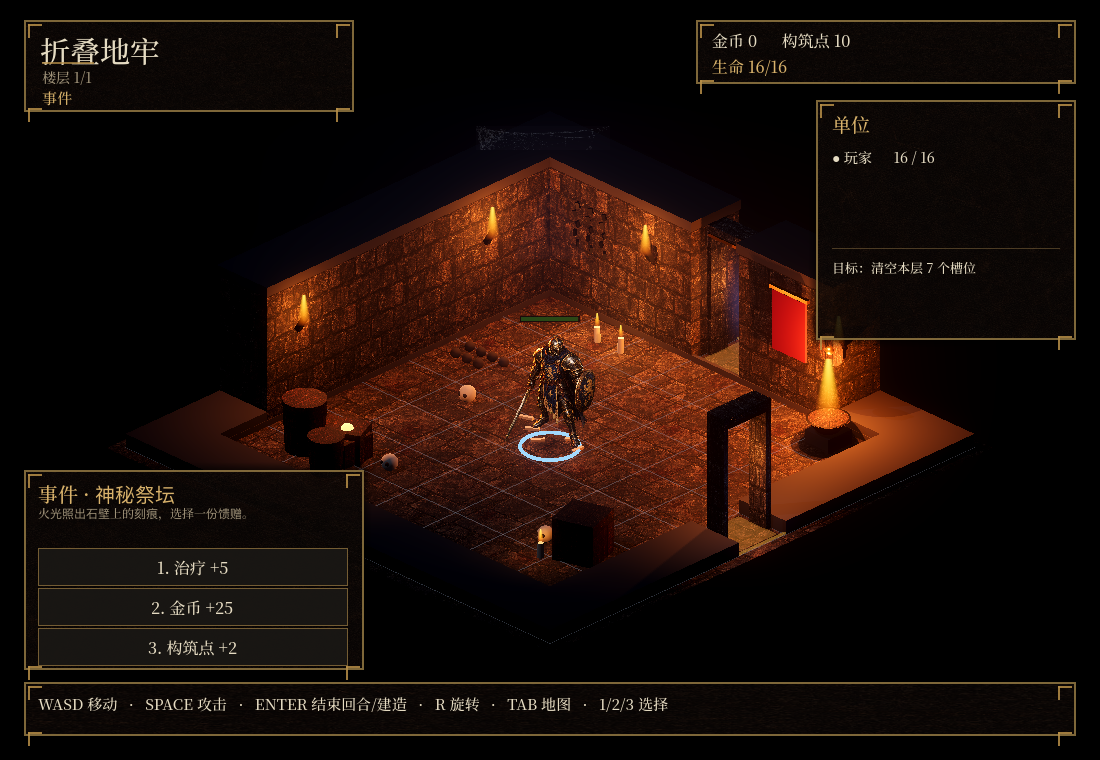
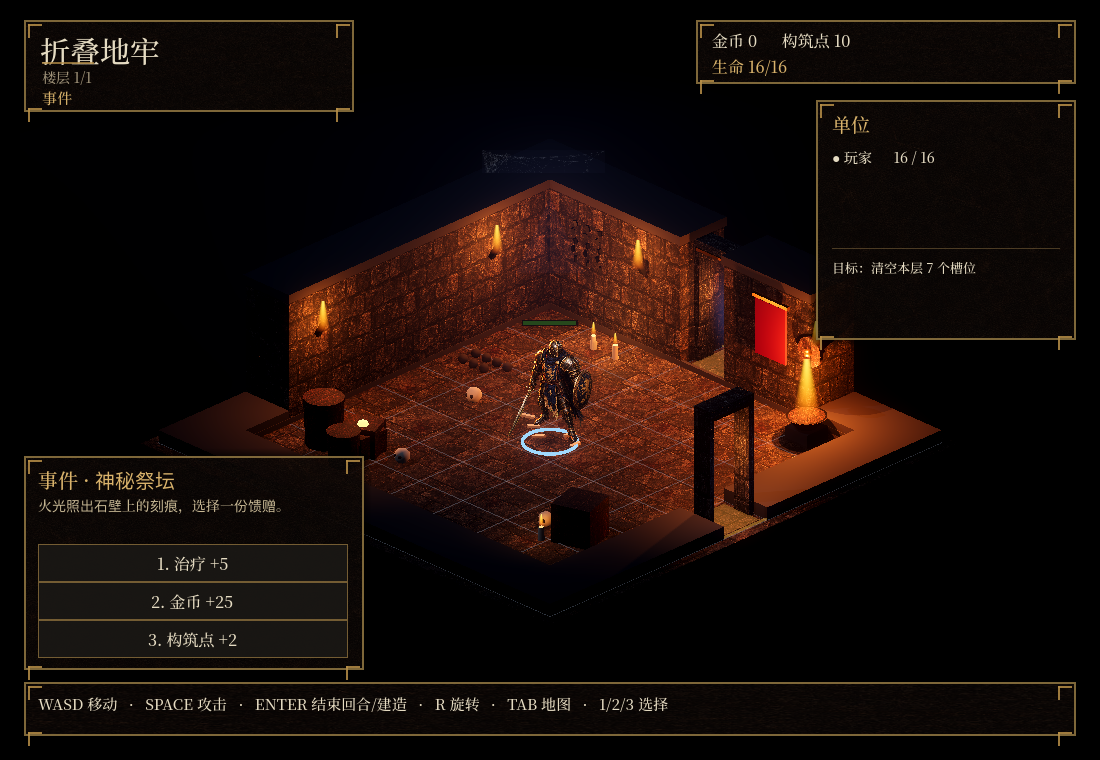
M6-4 QA 回修：标题主按钮/ghost 透明与选中态/事件排版/结算对比
- 标题：开始按钮主样式+默认焦点，按钮底更实，菜单 18px；背景遮罩加深
- 构筑：ghost alpha 0.13 + 亮色细描边；蓝图选中行金框/粗左边/左对齐
- 事件：说明 14px 提亮、与标题拉开；选项下移，底部留白
- 结算：全屏压暗 + 弹窗底衬更实，副标题 15px 提亮；底栏切 R/T 提示

Changed region(s): [[0.0, 0.1816, 0.8964, 0.7868], [0.0309, 0.7263, 0.3091, 0.8776]]

diff --git a/docs/09-视觉与手感升级方案（M6）.md b/docs/09-视觉与手感升级方案（M6）.md
@@ -55,6 +55,7 @@
 - **HUD**：蓝图卡加入房间主题色条、事件/商店/休整面板加标题与描述、结算面板加结果文案 + "R 再来一局 / T 返回标题"、F3 调试面板、Esc 返回标题；
 - **流程**：标题→单局→结算→重开/标题闭环；`game/tools/godot run` 现在是标题界面；
 - 截图：`docs/screenshots/m6-4-{title,build,event,settle}.png`（后台离屏采集）；
+- **QA 回修（同日）**：标题主按钮/默认焦点与按钮不透明度、构筑 ghost 半透明+描边与蓝图选中态/左对齐、事件说明字号/间距/底部留白、结算全屏压暗+副标题对比度+底栏 R/T 文案；
 - 测试：**36 cases / 103 tests / 1658 assertions 全绿**（新增字体/主题/标题场景测试）。
 
 **剩余：** 标题界面细节（按钮悬停动效/标题字标/继续游戏读档）、HUD 图标套装、商店/事件插画、结算统计细化；音效在 M6-5。
